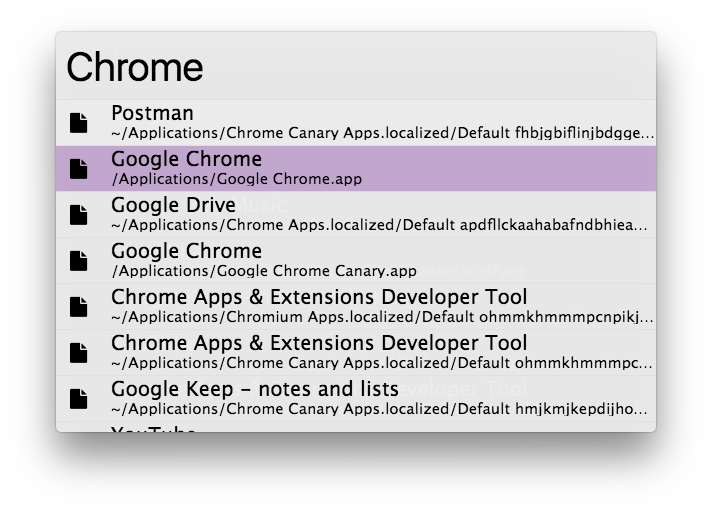
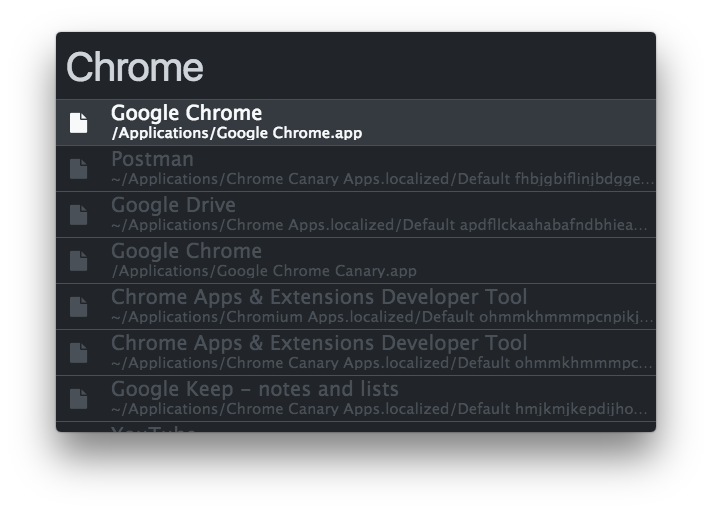
Make it darker

diff --git a/sass/main.scss b/sass/main.scss
@@ -1,7 +1,3 @@
-$main: #F7F7F7;
-$secondary: #BDA0CB;
-$transparency: 0.1;
-
 html, body {
   margin: 0;
   padding: 0;
@@ -9,24 +5,20 @@ html, body {
   overflow: hidden;
 }
 
-body.playbook {
-  background-color: $main;
-}
-
 section#zazu {
-  background-color: transparentize(darken($main, 5%), $transparency);
-  background-position: 530px 5px;
-  background-repeat: no-repeat;
-  background-size: 60px;
+  color: #495057;
+  background-color: #212529;
   -webkit-app-region: drag;
   cursor: move;
 
   input {
+    color: #ced4da;
     outline: none;
     font-size: 40px;
     width: 500px;
     padding: 10px;
     border: 0;
+    border-radius: 0;
     background-color: transparent;
     -webkit-app-region: no-drag;
     cursor: auto;
@@ -43,7 +35,7 @@ section#zazu {
     ul {
       padding: 0;
       margin: 0;
-      border-top: 1px solid transparentize(darken($main, 10%), $transparency);
+      border-top: 1px solid #495057;
       max-height: 333px;
       overflow: hidden;
       width: 50%;
@@ -60,7 +52,7 @@ section#zazu {
         display: block;
         height: 45px;
         line-height: 45px;
-        border-bottom: 1px solid transparentize(darken($main, 10%), $transparency);
+        border-bottom: 1px solid #495057;
         -webkit-app-region: no-drag;
         cursor: pointer;
         width: 100%;
@@ -99,11 +91,13 @@ section#zazu {
         }
 
         &.active {
-          background-color: transparentize($secondary, $transparency);
+          background-color: #343a40;
+          color: #f8f9fa;
         }
 
         &:hover {
-          background-color: transparentize(lighten($secondary, 10%), $transparency);
+          background-color: #495057;
+          color: #e9ecef;
         }
       }
     }

diff --git a/dist/main.css b/dist/main.css
@@ -4,22 +4,19 @@ html, body {
   font-size: 20px;
   overflow: hidden; }
 
-body.playbook {
-  background-color: #F7F7F7; }
-
 section#zazu {
-  background-color: rgba(234, 234, 234, 0.9);
-  background-position: 530px 5px;
-  background-repeat: no-repeat;
-  background-size: 60px;
+  color: #495057;
+  background-color: #212529;
   -webkit-app-region: drag;
   cursor: move; }
   section#zazu input {
+    color: #ced4da;
     outline: none;
     font-size: 40px;
     width: 500px;
     padding: 10px;
     border: 0;
+    border-radius: 0;
     background-color: transparent;
     -webkit-app-region: no-drag;
     cursor: auto; }
@@ -31,7 +28,7 @@ section#zazu {
     section#zazu div.results ul {
       padding: 0;
       margin: 0;
-      border-top: 1px solid rgba(222, 222, 222, 0.9);
+      border-top: 1px solid #495057;
       max-height: 333px;
       overflow: hidden;
       width: 50%; }
@@ -43,7 +40,7 @@ section#zazu {
         display: block;
         height: 45px;
         line-height: 45px;
-        border-bottom: 1px solid rgba(222, 222, 222, 0.9);
+        border-bottom: 1px solid #495057;
         -webkit-app-region: no-drag;
         cursor: pointer;
         width: 100%; }
@@ -72,6 +69,8 @@ section#zazu {
           font-size: 15px;
           line-height: 15px; }
         section#zazu div.results ul li.active {
-          background-color: rgba(189, 160, 203, 0.9); }
+          background-color: #343a40;
+          color: #f8f9fa; }
         section#zazu div.results ul li:hover {
-          background-color: rgba(212, 193, 221, 0.9); }
+          background-color: #495057;
+          color: #e9ecef; }
